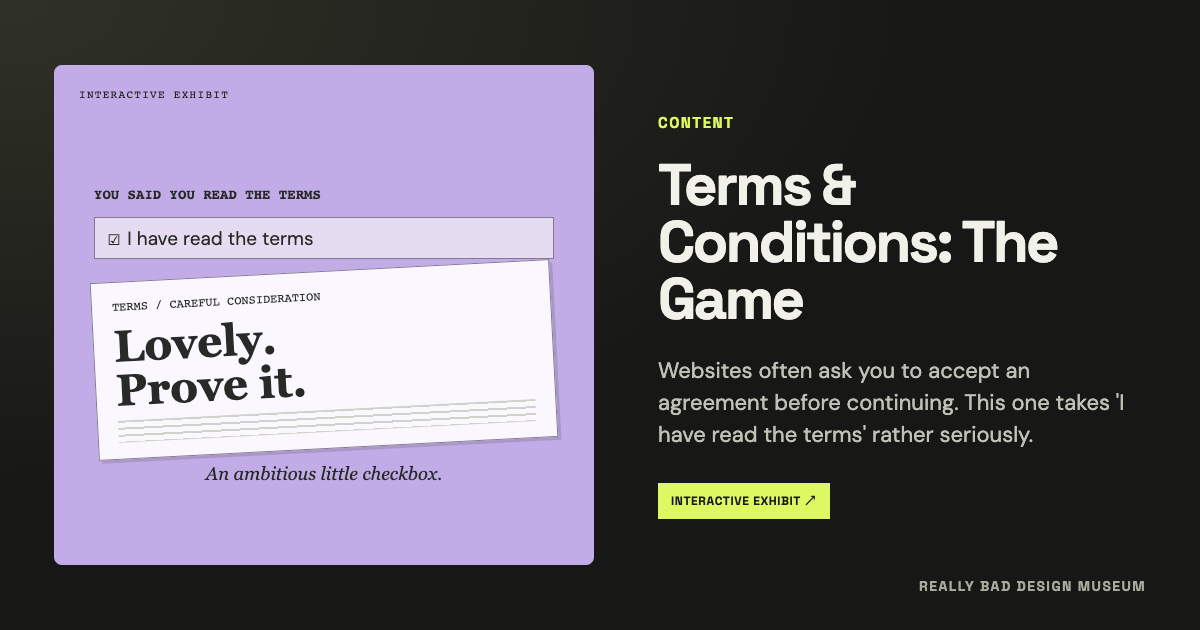
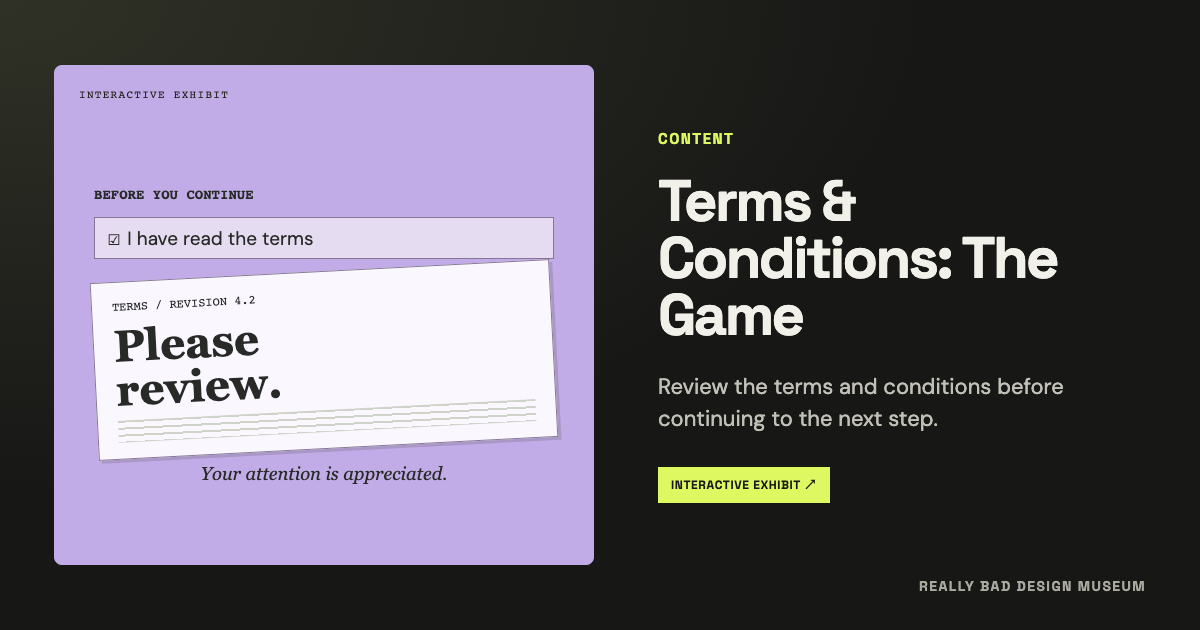
Terms & Conditions now plays it straighter. The opening reads like routine paperwork, with the quiz revealed only after selecting “I have read the terms.”
Removed repeated “non-binding” and “decline anytime” reminders, trimmed explanatory feedback, and toned down the gallery preview and share image. The absurd agreement carries the humour; decline controls and keyboard guidance remain clear.

diff --git a/exhibits/content-and-navigation.js b/exhibits/content-and-navigation.js
@@ -3,7 +3,7 @@ import { createStageShell, createDemoStatus, completeExhibit, downloadDemoFile }
 
 export const exhibits = [
   { id: "recipe", task: "Find the ingredients and method for buttered toast.", fixedTask: "Find the buttered-toast ingredients and method. They are available immediately.", name: "The Recipe Odyssey", category: "Content", color: "green", tagline: "Find a toast recipe. First, a little context.", description: "You need the ingredients and instructions for buttered toast. The food blog would like to start a little further back.", lesson: "You search for a quick recipe and find the author's entire family history first. This version goes further: it checks that you read the story before letting you reach two ingredients and a toaster.", fix: "The recipe comes first. The story is still there for anyone who wants to read it.", worseChange: "The blog is taking its family history even more seriously.", preview: `<div class="thumb-scene thumb-recipe"><span class="thumb-kicker">A PINCH OF PATIENCE</span><div class="thumb-toast-intro"><div class="thumb-toast" aria-hidden="true"><i></i></div><div><strong>Toast.</strong><span>2 ingredients.<br>A little backstory.</span></div></div><div class="thumb-recipe-gate"><span>BEFORE WE COOK</span><b>It began with Grandma.</b><small>First, a little context.</small></div></div>`, render: renderRecipe },
-  { id: "terms-game", task: "Read the agreement and decide whether to accept it. You may decline at any time.", fixedTask: "Read the summary and choose Accept terms or Decline terms.", name: "Terms & Conditions: The Game", category: "Content", color: "lilac", tagline: "'I have read the terms.' An ambitious claim.", description: "Websites often ask you to accept an agreement before continuing. This one takes 'I have read the terms' rather seriously.", lesson: "Most people recognize the checkbox saying they've read the terms and conditions. Here the website takes that claim literally and tests your memory. Signing up has become homework.", fix: "A short summary replaces the long document and exam. Accept or decline without a reading exam.", worseChange: "There is more paperwork, and the agreement expects more of your attention.", preview: `<div class="thumb-scene thumb-terms"><span class="thumb-kicker">YOU SAID YOU READ THE TERMS</span><div class="thumb-terms-check">☑ I have read the terms</div><div class="thumb-exam"><span>TERMS / CAREFUL CONSIDERATION</span><strong>Lovely.<br>Prove it.</strong><div class="fake-lines"></div></div><small class="thumb-footer">An ambitious little checkbox.</small></div>`, render: renderTermsGame },
+  { id: "terms-game", task: "Review the agreement and decide whether to accept it.", fixedTask: "Read the summary and choose Accept terms or Decline terms.", name: "Terms & Conditions: The Game", category: "Content", color: "lilac", tagline: "A moment of your attention.", description: "Review the terms and conditions before continuing to the next step.", lesson: "Most people recognize the checkbox saying they've read the terms and conditions. Here the website takes that claim literally and tests your memory. Signing up has become homework.", fix: "A short summary replaces the long document and exam. Accept or decline without a reading exam.", worseChange: "The committee has issued a revised agreement.", preview: `<div class="thumb-scene thumb-terms"><span class="thumb-kicker">BEFORE YOU CONTINUE</span><div class="thumb-terms-check">☑ I have read the terms</div><div class="thumb-exam"><span>TERMS / REVISION 4.2</span><strong>Please<br>review.</strong><div class="fake-lines"></div></div><small class="thumb-footer">Your attention is appreciated.</small></div>`, render: renderTermsGame },
   { id: "mystery-menu", task: "Find your receipt for an expense claim. Open Receipts and select Download receipt.", fixedTask: "Open Receipts and select Download receipt for your expense claim.", name: "The Mystery Meat Menu", category: "Navigation", color: "blue", tagline: "Find your receipt. The menu prefers pictures.", description: "Find your receipt using a website menu that would rather let its symbols do the talking than name its links.", lesson: "You've probably stared at an unfamiliar icon wondering what it does. This menu removes every label, so even finding and downloading an expense receipt becomes trial and error.", fix: "The menu shows clear destination names that stay in the same places, so you can find and download the receipt.", worseChange: "The menu is even less predictable. Your goal is still to download the receipt.", preview: `<div class="thumb-scene thumb-mystery"><span class="thumb-kicker">YOUR RECEIPT IS ONE OF THESE</span><div class="thumb-symbol-menu"><span>⌘</span><span>◇</span><span>✳</span><span>◌</span><span class="thumb-mystery-active">⧉</span><span>⌁</span></div><div class="thumb-useless-tooltip">The other thing.</div><small class="thumb-footer">Six icons. A small paperwork adventure.</small></div>`, render: renderMysteryMenu },
   { id: "retro", task: "Enter a made-up nickname and sign the guestbook.", fixedTask: "Enter a made-up nickname and select Sign guestbook.", name: "The Retro Personal Homepage", category: "Nostalgia", color: "yellow", tagline: "It's 1997. Everything is nearly working.", description: "Before social profiles, personal websites had guestbooks for visitors to sign. Leave a nickname on this blast from the past.", lesson: "Before social profiles, personal homepages often had a guestbook where visitors left a name or message. This one brings back the stars and visitor counters, then adds links and typing that fight back.", fix: "The nostalgic look stays, but links go where they say and the guestbook accepts ordinary typing.", worseChange: "The homepage has acquired a few more questionable upgrades.", preview: `<div class="thumb-scene thumb-retro"><span class="thumb-kicker">WELCOME TO MY HOMEPAGE!</span><div class="thumb-retro-site"><div class="thumb-retro-marquee">✦ SIGN MY GUESTBOOK ✦</div><span class="thumb-retro-intent">LEAVE YOUR NICKNAME</span><div class="thumb-retro-input"><span>NICKNAME</span><b>Alex<span>|</span></b></div><div class="thumb-retro-construction">UNDER CONSTRUCTION</div><span class="thumb-retro-counter">YOU ARE VISITOR 000042</span></div><small class="thumb-footer">Nearly working since 1997.</small></div>`, render: renderRetro },
 ];
@@ -12,7 +12,7 @@ function buildMuseumTerms(worse) {
   const facts = [
     { clause: 8, question: "Which animal is the official spokesperson?", answer: "capybara", sentence: "The official spokesperson for all ceremonial communications is a capybara." },
     { clause: 17, question: "On which weekday are emergency meetings held?", answer: "Thursday", sentence: "Emergency meetings are held on Thursday, regardless of when the emergency was invented." },
-    { clause: 26, question: "What is the approved ink color?", answer: "aubergine", sentence: "The approved ink color for all non-binding annotations is aubergine." },
+    { clause: 26, question: "What is the approved ink color?", answer: "aubergine", sentence: "The approved ink color for all official annotations is aubergine." },
     { clause: 35, question: "In what currency are ceremonial refunds issued?", answer: "paperclips", sentence: "Ceremonial refunds are issued exclusively in paperclips. Bent paperclips require a separate application." },
     { clause: 44, question: "How long is the ceremonial waiting period?", answer: "17 business naps", sentence: "The ceremonial waiting period is 17 business naps, which are not recognized units of time." },
     { clause: 53, question: "What is the committee's ceremonial passphrase?", answer: "waffle parliament", sentence: "The committee's ceremonial passphrase is waffle parliament. Please whisper it near the filing cabinet." },
@@ -26,12 +26,12 @@ function buildMuseumTerms(worse) {
   const themes = [
     ["The status of a chair", "A chair shall be considered provisionally seated upon only after the Committee for Sitting has acknowledged that a person may eventually contemplate sitting. Standing next to the chair does not constitute a reservation. Looking at the chair creates no entitlement to its cushion. The chair retains its inalienable right to remain furniture throughout these proceedings."],
     ["The emotional condition of stationery", "Stationery may be described as enthusiastic, reserved, or administratively overwhelmed. Such descriptions do not alter its physical properties or confer the ability to process requests. A pencil remains a pencil even when assigned a leadership role. Erasers may attend planning meetings but may not erase the meeting itself, its agenda, or the existence of a competing pencil."],
-    ["The custody of biscuits", "Biscuits placed near a meeting shall be classified as discussion-adjacent provisions. Classification does not imply that a meeting must occur, that anyone must attend, or that the biscuit is edible. Crumbs are independent subsidiaries of the original biscuit for the purposes of this excessively thorough document. No participant is required to count, name, or negotiate with them."],
+    ["The custody of biscuits", "Biscuits placed near a meeting shall be classified as discussion-adjacent provisions. Classification does not imply that a meeting must occur, that anyone must attend, or that the biscuit is edible. Crumbs are independent subsidiaries of the original biscuit for the purposes of this agreement. No participant is required to count, name, or negotiate with them."],
     ["The scheduling of unnecessary meetings", "A meeting to arrange a meeting shall not be confused with the meeting that is eventually arranged. Each may have a separate agenda describing the agenda of the other. If the two agendas become identical, a further meeting may be imagined to appreciate the coincidence. Invitations to either meeting must be discussed at a third meeting before being sent."],
     ["The direction of ambient enthusiasm", "Enthusiasm is expected to travel in a generally constructive direction without obstructing the administrative corridors. Participants may express moderate interest without submitting evidence of excitement. Excessive enthusiasm may be placed in a metaphorical drawer until the next ceremonial interval. The drawer's location is available upon completion of the Enthusiasm Location Request Form."],
     ["The classification of small clouds", "Clouds visible through a hypothetical window may resemble objects without acquiring their responsibilities. A cloud that resembles a teapot is not responsible for serving tea. A cloud that resembles a lawyer does not provide legal advice. Any resemblance between a cloud and a pending form shall be attributed to imagination rather than an outstanding administrative requirement."],
     ["The maintenance of corridors", "Corridors must remain open to authorized paperwork at all times. Participants wishing to stand in a corridor must first confirm that they are not obstructing a sentence. References to the end of a corridor indicate the end of a sentence unless the sentence continues. In that case, the corridor has been extended solely for the convenience of the writer."],
-    ["The interpretation of decorative arrows", "An arrow printed beside a statement is not automatically a promise that the statement will lead anywhere useful. In a sensible interface, arrows should nevertheless behave predictably. The committee has elected to hold a discussion about predictability rather than implement it. The discussion has been recorded only in these words and creates no further administrative work for the reader."],
+    ["The interpretation of decorative arrows", "An arrow printed beside a statement shall indicate a direction approved by the Directional Advisory Panel. Approval of a direction does not imply approval of a destination. Arrows wishing to point elsewhere must submit a request facing the currently approved direction. Requests pointing toward their own supporting documentation will be considered circular."],
     ["The storage of unused adjectives", "Adjectives not currently attached to a noun may wait in a temporary holding area. They may not describe themselves as essential merely to obtain priority placement. The words innovative, transformative, and seamless have been asked to remain seated until a concrete benefit can be identified. No adjective can claim ownership of a product, a person, or a reasonable expectation."],
     ["The ceremonial opening of envelopes", "An envelope may be ceremonially opened whether or not it contains a letter. The absence of a letter does not invalidate the opening ceremony, but it substantially reduces the amount of reading required afterward. Reopening an already open envelope is considered an advanced technique. It should not be attempted until the envelope has acknowledged its first opening in writing."],
     ["The distribution of honorary titles", "Honorary titles may be bestowed upon inanimate office objects following a brief nomination ceremony. A stapler appointed Deputy Coordinator of Alignment does not gain managerial powers. A ruler appointed Head of Measurement remains exactly as long as before. These appointments carry no salary, but do entitle the object to a prominently placed desk plaque. Promotions must be discussed out of earshot of the pencil sharpener."],
@@ -46,7 +46,7 @@ function buildMuseumTerms(worse) {
     clause => `Without limiting the generality of the extremely specific nonsense below, this provision applies throughout the known filing cabinet. Drawers left ajar are deemed to be thinking. Drawers closed firmly are deemed to have declined to comment, subject always to the hinge's right of reply.`,
   ];
   const administrativeNotes = [
-    clause => `Administrative note ${clause}.1: an acknowledgment of this paragraph acknowledges only that the paragraph exists. It is not an endorsement of its length, usefulness, or relationship to the task you actually wanted to complete. Where an ambiguity remains, the imaginary committee recommends reading the same sentence again with a more bureaucratic expression.`,
+    clause => `Administrative note ${clause}.1: an acknowledgment of this paragraph acknowledges only that the paragraph exists. Acknowledgments must be filed separately from notices acknowledging receipt of those acknowledgments. Where an ambiguity remains, the committee recommends reading the same sentence again with a more bureaucratic expression.`,
     clause => `Compliance memorandum ${clause}-Q: no compliance is requested, available, or measurable. Completed forms should be placed beneath an incomplete form so that both may learn from the experience. The Records Office is open whenever its sign says otherwise.`,
     clause => `Interpretive addendum ${clause}.purple: should this clause make sense, the reader must notify the Department of Accidental Clarity before understanding it further. Clarity will be wrapped in archival tissue, assigned a temporary surname, and returned within six to eight imaginary seasons.`,
     clause => `Procedural afterthought ${clause}: objections may be submitted verbally to an unattended coat rack. The coat rack is not authorized to respond, retain the objection, or wear a hat during business hours. Silence shall be treated as neither acceptance nor particularly good conversation.`,
@@ -145,15 +145,15 @@ function renderTermsGame({ stage, mode, shuffle }) {
   const worse = mode === "worse";
   const { shell, say } = createStageShell(stage);
   const contract = buildMuseumTerms(worse);
-  shell("TERMS / CAREFUL CONSIDERATION", fixed ? "Terms a human can actually read." : "Please read every exceedingly important word.",
-    fixed ? "Instead of scrolling through pages of terms, read this short summary and accept or decline." : "Websites often ask you to accept an agreement before continuing. This one takes 'I have read the terms' rather seriously. Scroll to the end, then answer the questions to accept. You can look back at the document, and you may decline at any time.",
-    fixed ? `<div class="terms-summary"><h3>The short, non-binding version</h3><ul><li>The committee has a capybara, the paperwork has opinions, and ceremonial refunds arrive in paperclips.</li><li>No reading exam stands between you and your decision.</li><li>Accept to continue, or decline to leave the paperwork behind.</li></ul><div class="new-actions"><button class="demo-button" id="terms-accept">Accept terms</button><button class="plain-button" id="terms-decline">Decline terms</button></div></div>` : `<div class="terms-document-meta"><span id="terms-word-count"></span><span>NON-BINDING · UNNECESSARILY LONG</span></div><article class="terms-document" id="terms-document" tabindex="0" aria-label="Full terms and conditions"><h3>Agreement for the Provisional Use of Absolutely Nothing</h3><p>These terms govern the provisional use of absolutely nothing. Please consult every clause before forming an opinion. Opinions submitted prematurely will be returned for additional consideration.</p>${contract.sections.join("")}<p class="terms-end">END OF AGREEMENT. The paperwork is over. The exam is not.</p></article><div class="terms-exam-actions"><p id="terms-reading-status" role="status">Scroll to the end of the document to unlock the reading exam. Keyboard users can focus the document and use End.</p><button class="demo-button" id="terms-start" disabled>Prove I read it</button><button class="plain-button" id="terms-decline">Decline terms</button></div><section class="terms-exam" id="terms-exam" aria-label="Reading comprehension exam" hidden></section>`);
+  shell("TERMS / REVISION 4.2", "Terms & conditions.",
+    fixed ? "Review the terms summary below." : "Please review the agreement before continuing.",
+    fixed ? `<div class="terms-summary"><h3>Summary</h3><ul><li>The official spokesperson is a capybara.</li><li>Emergency meetings take place on Thursday.</li><li>Ceremonial refunds are issued in paperclips.</li></ul><div class="new-actions"><button class="demo-button" id="terms-accept">Accept terms</button><button class="plain-button" id="terms-decline">Decline terms</button></div></div>` : `<div class="terms-document-meta"><span id="terms-word-count"></span><span>${contract.sections.length} CLAUSES · REVISION 4.2</span></div><article class="terms-document" id="terms-document" tabindex="0" aria-label="Full terms and conditions"><h3>Agreement for the Provisional Use of Absolutely Nothing</h3><p>These terms govern the provisional use of absolutely nothing. Please consult every clause before forming an opinion. Opinions submitted prematurely will be returned for additional consideration.</p>${contract.sections.join("")}<p class="terms-end">END OF AGREEMENT.</p></article><div class="terms-exam-actions"><p id="terms-reading-status" role="status">Read to the end to continue. Keyboard: focus the document and press End.</p><button class="demo-button" id="terms-start" disabled>I have read the terms</button><button class="plain-button" id="terms-decline">Decline terms</button></div><section class="terms-exam" id="terms-exam" aria-label="Reading verification" hidden></section>`);
   let ended = false;
   const accept = () => {
     ended = true;
     stage.querySelector("#terms-accept").disabled = true;
     stage.querySelector("#terms-decline").disabled = true;
-    say(fixed ? "Terms accepted. The paperwork is behind you." : "Reading exam passed. Terms accepted. The committee is impressed.");
+    say(fixed ? "Terms accepted." : "Terms accepted. The committee is impressed.");
     stage.dispatchEvent(new Event("exhibit-complete", { bubbles: true }));
   };
   stage.querySelector("#terms-decline").addEventListener("click", () => {
@@ -175,7 +175,7 @@ function renderTermsGame({ stage, mode, shuffle }) {
     const start = stage.querySelector("#terms-start");
     const exam = stage.querySelector("#terms-exam");
     const wordCount = documentPanel.textContent.trim().split(/\s+/).length;
-    stage.querySelector("#terms-word-count").textContent = `${wordCount.toLocaleString("en-US")} words · approximately ${Math.ceil(wordCount / 220)} minutes of regrettable reading`;
+    stage.querySelector("#terms-word-count").textContent = `${wordCount.toLocaleString("en-US")} words · ${Math.ceil(wordCount / 220)} min read`;
     let unlocked = false;
     let question = 0;
     let questions = worse ? shuffle(contract.facts) : [...contract.facts];
@@ -187,21 +187,21 @@ function renderTermsGame({ stage, mode, shuffle }) {
       if (documentPanel.scrollTop + documentPanel.clientHeight >= documentPanel.scrollHeight - 4) {
         unlocked = true;
         start.disabled = false;
-        stage.querySelector("#terms-reading-status").textContent = "You've reached the end. Start the quiz below; you can look back at the agreement for answers.";
+        stage.querySelector("#terms-reading-status").textContent = "End of agreement reached.";
       }
     };
     documentPanel.addEventListener("scroll", checkScroll);
     const renderQuestion = () => {
       if (question === questions.length) {
-        exam.innerHTML = `<h3>Reading exam passed.</h3><p>You answered all ${questions.length} questions. You may now accept the agreement, or decline it.</p><button class="demo-button" id="terms-accept">Accept terms</button>`;
+        exam.innerHTML = `<h3>Review complete.</h3><p>${questions.length} answers recorded.</p><button class="demo-button" id="terms-accept">Accept terms</button>`;
         exam.querySelector("#terms-accept").addEventListener("click", accept);
         exam.querySelector("button").focus();
         return;
       }
       const fact = questions[question];
       const clauseHelp = () => !worse || hintedClauses.has(fact.clause)
-        ? `Consult clause ${fact.clause} in the document above. Answers are case-insensitive.`
-        : "The answer is somewhere in the document above. No clause number this time. Answers are case-insensitive.";
+        ? `Refer to clause ${fact.clause}. Answers are case-insensitive.`
+        : "Refer to the agreement above. Answers are case-insensitive.";
       exam.innerHTML = `<span class="demo-kicker">QUESTION ${question + 1} / ${questions.length}${worse ? "" : ` · CLAUSE ${fact.clause}`}</span><h3>${fact.question}</h3><p id="terms-clause-help" role="status">${clauseHelp()}</p>${worse ? '<div class="new-actions"><button type="button" class="plain-button" id="terms-hint"></button></div>' : ""}<form id="terms-answer-form"><label for="terms-answer">Your answer</label><input id="terms-answer" type="text" maxlength="100" required autocomplete="off"><button class="demo-button">Submit answer</button></form>`;
       if (worse) {
         const hintButton = exam.querySelector("#terms-hint");
@@ -232,7 +232,7 @@ function renderTermsGame({ stage, mode, shuffle }) {
         }
         question++;
         renderQuestion();
-        say(question === questions.length ? "All reading evidence accepted. The final acceptance button is now available." : `${question} correct answer${question === 1 ? "" : "s"}. More evidence is required.`);
+        say(question === questions.length ? "Review complete." : `${question} / ${questions.length} answers recorded.`);
       });
       exam.querySelector("input").focus();
     };

diff --git a/docs/exhibit-development.md b/docs/exhibit-development.md
@@ -58,7 +58,7 @@ Give each layer a distinct job. Collection descriptions establish familiar conte
 
 Keep the personality. This is not a requirement to flatten every sentence into plain language. Titles, previews, fictional sales pitches, and feedback can be playful. Keep intentionally confusing text when it is the interaction itself, such as the cancellation questions, corporate jargon, or fictional legal agreement. Safety warnings, keyboard/touch instructions, reduced-motion behavior, recovery controls, and the fact that switching modes clears progress must remain explicit and trustworthy; do not hide practical guidance to protect a joke.
 
-Let the museum framing establish the satire. Tasks, buttons, previews, and results should speak naturally within each exhibit rather than repeatedly saying "demo," "fictional," "pretend," or "nothing was sent." Keep a brief made-up-details reminder in the first-visit guide, specific password warnings beside credential puzzles, a non-binding label on the terms, and limitations inside downloadable tickets and receipts. Report what the visitor achieved or what blocked them; do not append a generic disclaimer to every result.
+Let the museum framing establish the satire. Tasks, buttons, previews, and results should speak naturally within each exhibit rather than repeatedly saying "demo," "fictional," "pretend," or "nothing was sent." Keep a brief made-up-details reminder in the first-visit guide, specific password warnings beside credential puzzles, and limitations inside downloadable tickets and receipts. Terms need no repeated legal disclaimers or reminders that declining is available: keep the Decline terms control visible and let the agreement's absurdity speak for itself. Report what the visitor achieved or what blocked them; do not append a generic disclaimer to every result.
 
 Keep museum navigation controls stable and outside exhibit interference. The labeled exhibit frame separates the simulation from the sticky museum toolbar. The inline first-visit guide can be dismissed and reopened; only its dismissal is remembered in session storage for the current tab. Visitor inputs are never stored. Provide keyboard operation, a usable touch path, and reduced-motion behavior for animated interactions. Hidden tabs and abandoned exhibits must not continue time-sensitive work.
 

diff --git a/docs/testing.md b/docs/testing.md
@@ -52,7 +52,7 @@ MUSEUM_URL=http://127.0.0.1:3019 npm run test:runaway
 
 Run `npm run test:ux` for the six logical blocks, or select one with `test:ux:shell`, `test:ux:forms`, `test:ux:interaction`, `test:ux:content`, `test:ux:commerce`, or `test:ux:website`.
 
-These cover mission visibility and scoped Escape; locked accepted forms and repeated explicit retries; formatted phone entry, touch birthday precision, explicit password acceptance, and consistent preference goals; reduced-motion recovery and volume boundaries; stable unlocked recipes and fictional receipt downloads; basket-aware shopping feedback and modal museum access; cancellation translations, persistent wrong-answer explanations, explicit checkpoint recovery, progress and completion; delivery summaries, registration locking, and delayed hover-help disclosure. Desktop and narrow mobile checks use browser emulation, not physical devices or screen-reader verification.
+These cover mission visibility and scoped Escape; locked accepted forms and repeated explicit retries; formatted phone entry, touch birthday precision, explicit password acceptance, and consistent preference goals; reduced-motion recovery and volume boundaries; stable unlocked recipes and fictional receipt downloads; terms' unspoiled entry copy, scroll-gated review, wrong-answer rules, hint limits, explicit acceptance, declining before or during review, and restart; basket-aware shopping feedback and modal museum access; cancellation translations, persistent wrong-answer explanations, explicit checkpoint recovery, progress and completion; delivery summaries, registration locking, and delayed hover-help disclosure. Desktop and narrow mobile checks use browser emulation, not physical devices or screen-reader verification.
 
 The UX, goals, and shared experience suites support an existing Chromium-compatible executable when Playwright's bundled browser is unavailable:
 

diff --git a/docs/exhibits.md b/docs/exhibits.md
@@ -112,7 +112,7 @@ Hard also rerolls and unlocks the digit to the left, making a right-to-left stra
 
 **Route:** `/exhibit/terms-game`
 
-Scroll through an 80-clause fictional agreement before taking an eight-question open-book exam. Acceptance unlocks only after every answer is correct, while declining is always available.
+Review an 80-clause fictional agreement, then select **I have read the terms** to reveal an eight-question open-book exam. The catalog, preview, and initial instructions present routine paperwork rather than announcing the exam; reading guidance still explains the scroll requirement and keyboard shortcut. Acceptance unlocks only after every answer is correct, while the visible **Decline terms** control remains available throughout.
 
 Hard doubles the agreement, adds questions, limits hints, and reshuffles the exam after wrong answers. Fix it offers a short summary and immediate accept or decline controls. Either decision completes the interaction with its actual outcome; declining is never treated as an error. No real agreement is created.
 
